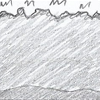
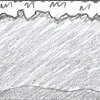
Changed name of the first background of the World to hills, and made it transparent. Added second background to World, which is a mountain range. Made both backgrounds of the world move slowly based on the CAM position.

Changed region(s): [[0.0, 0.0, 1.0, 0.51], [0.18, 0.27, 0.21, 0.3]]

diff --git a/DefendYourStuff/GameEngine/src/main/java/sdu/group8/gameengine/main/Game.java b/DefendYourStuff/GameEngine/src/main/java/sdu/group8/gameengine/main/Game.java
@@ -61,10 +61,10 @@ public class Game
     private static Game instance = null;
     private Collection<Entity> entities;
 
-    private Image firstBackgroundImage = new Image("World/world_chunk01_bg01.png", false);
+    private Image firstBackgroundImage = new Image("World/world_hills01_bg.png", false);
+    private Image secondBackgroundImage = new Image("World/world_mountains01_bg.png", false); //TODO: Change to mountains image
     private int firstBackgroundImageScrollX = 0;
-
-    private Image secondBackgroundImage = new Image("World/world_chunk01_bg01.png", false); //TODO: Change to mountains image
+    private int secondBackgroundImageScrollX = 0;
 
     public Collection<? extends IGameProcessingService> getGameProcesses() {
         return lookup.lookupAll(IGameProcessingService.class);
@@ -111,7 +111,8 @@ public class Game
         assetManager.load("Chunks/chunk_grassland01_bg01.png", Texture.class);
         assetManager.load("Chunks/chunk_portal01_bg01.png", Texture.class);
 
-        assetManager.load("World/world_chunk01_bg01.png", Texture.class);
+        assetManager.load("World/world_hills01_bg.png", Texture.class);
+        assetManager.load("World/world_mountains01_bg.png", Texture.class);
 
         assetManager.load("defaultImage.png", Texture.class);
         assetManager.load("defaultBackground.png", Texture.class);
@@ -150,7 +151,6 @@ public class Game
     private void update() {
 
         updateCamera();
-        updateBackgroundImageForWorld();
 
         for (IGameProcessingService gameProcess : getGameProcesses()) {
             gameProcess.process(gameData, world);
@@ -185,8 +185,8 @@ public class Game
     private void draw() {
         batch.begin();
 
-        //drawTextureFromAsset(firstBackgroundImage, CAM.position.x - CAM.viewportWidth / 2, gameData.getTILE_SIZE()); // Draw second background for the world;
-        drawBackgroundImageForWorld(); //Draw first background for the world;
+        //drawTextureFromAsset(secondBackgroundImage, CAM.position.x - CAM.viewportWidth / 2, gameData.getTILE_SIZE()); // Draw second background for the world;
+        drawBackgroundImageForWorld(); //Draw backgrounds for the world;
         drawMap(); // Draw chunks
         drawEntities(); // Draw entities
 
@@ -224,57 +224,56 @@ public class Game
     }
 
     private void drawSecondBackgroundForChunk(Chunk chunk, float positionOffset) {
-        drawTextureFromAsset(chunk.getSecondBackgroundImage(), positionOffset, chunk.getTILE_SIZE());
+        float scrollScale = 50;
+        float startScrollPos = positionOffset - chunk.getDimension().getWidth();
+        float endScrollPos = positionOffset + chunk.getDimension().getWidth() * 2;
+        float min = positionOffset - chunk.getDimension().getWidth() / scrollScale;
+        float max = positionOffset + (chunk.getDimension().getWidth() * 2) / scrollScale;
 
-        //TODO: add functionality so that the second background image slightly moves when the player is in the chunk.
-//        float chunkPosX = tileOffSetX * gameData.getTILE_SIZE();
-//        float middlePosX = chunkPosX + ((chunk.getDimension().getWidth() / 2) * gameData.getTILE_SIZE());
-//
-//        float min = chunkPosX + ((chunk.getDimension().getWidth() / 4) * gameData.getTILE_SIZE());
-//        float max = min + ((chunk.getDimension().getWidth() / 2) * gameData.getTILE_SIZE());
-//
-//        float playerPosX = gameData.getPlayerPosition().getX();
-//
-//        float imagePosX = min;
-//
-//        if (playerPosX < min) {
-//            imagePosX = max;
-//        } else if (playerPosX > max) {
-//            imagePosX = min;
-//        } else if (playerPosX < middlePosX) {
-//
-//        }
+        float playerPosX = gameData.getPlayerPosition().getX();
+        float imagePosX = max;
+
+        if (playerPosX < startScrollPos) {
+            imagePosX = max;
+        } else if (playerPosX > endScrollPos) {
+            imagePosX = min;
+        } else {
+            imagePosX = max - Math.abs(startScrollPos - playerPosX) / scrollScale;
+        }
+
+        drawTextureFromAsset(chunk.getSecondBackgroundImage(), imagePosX, chunk.getTILE_SIZE());
     }
 
     private void drawEntities() {
-        //TODO: Generalise for all entities;
-
         for (Entity entity : world.getEntities()) {
             drawTextureFromAsset(entity.getImage(), entity.getX() - (entity.getWidth() / 2), entity.getY() - entity.getHeight() / 2);
         }
     }
 
     private void updateCamera() {
-//        Vector3 camPos = CAM.position.cpy();
-//        CAM.position.set(gameData.getPlayerPosition().getX(), camPos.y, camPos.z);
-//        CAM.update();
-
-        //Set camera position.
         Vector3 camPos = CAM.position.cpy();
-        float posX = camPos.x;
-        float moveSpeed = 200;
-
-        if (gameData.getKeys().isKeyDown(gameData.getKeys().D)) {
-            posX += moveSpeed * gameData.getDelta();
-
-        }
-        if (gameData.getKeys().isKeyDown(gameData.getKeys().A)) {
-            posX -= moveSpeed * gameData.getDelta();
-
-        }
-        
-        CAM.position.set(posX, camPos.y, camPos.z);
+        CAM.position.set(gameData.getPlayerPosition().getX(), camPos.y, camPos.z);
         CAM.update();
+
+        camPos = CAM.position.cpy();
+        int scrollSpeed = (int) (camPos.x / 4);
+
+        firstBackgroundImageScrollX = scrollSpeed;
+        secondBackgroundImageScrollX = scrollSpeed / 2;
+
+//        //Set camera position.
+//        Vector3 camPos = CAM.position.cpy();
+//        float posX = camPos.x;
+//        float moveSpeed = 200;
+//        
+//        if (gameData.getKeys().isKeyDown(gameData.getKeys().D)) {
+//            posX += moveSpeed * gameData.getDelta();
+//
+//        }
+//        if (gameData.getKeys().isKeyDown(gameData.getKeys().A)) {
+//            posX -= moveSpeed * gameData.getDelta();
+//        }
+//        CAM.update();
     }
 
     @Override
@@ -300,18 +299,12 @@ public class Game
         batch.draw(sprite, x, y);
     }
 
-    private void updateBackgroundImageForWorld() {
-        float newCamPosX = gameData.getPlayerPosition().getX();
-        if (newCamPosX <= firstBackgroundImageScrollX) {
-            firstBackgroundImageScrollX -= newCamPosX;
-        } else {
-            firstBackgroundImageScrollX += newCamPosX;
-        }
-    }
-
     private void drawBackgroundImageForWorld() {
-        Texture tex = assetManager.get(firstBackgroundImage.getImageURL(), Texture.class);
-        tex.setWrap(Texture.TextureWrap.Repeat, Texture.TextureWrap.Repeat);
-        batch.draw(tex, CAM.position.x - CAM.viewportWidth / 2, 0, firstBackgroundImageScrollX, 0, gameData.getDisplayWidth(), gameData.getDisplayHeight());
+        Texture firstTex = assetManager.get(firstBackgroundImage.getImageURL(), Texture.class);
+        Texture secondTex = assetManager.get(secondBackgroundImage.getImageURL(), Texture.class);
+        firstTex.setWrap(Texture.TextureWrap.Repeat, Texture.TextureWrap.Repeat);
+        secondTex.setWrap(Texture.TextureWrap.Repeat, Texture.TextureWrap.Repeat);
+        batch.draw(secondTex, CAM.position.x - CAM.viewportWidth / 2, 0, secondBackgroundImageScrollX, 0, gameData.getDisplayWidth(), gameData.getDisplayHeight());
+        batch.draw(firstTex, CAM.position.x - CAM.viewportWidth / 2, 0, firstBackgroundImageScrollX, 0, gameData.getDisplayWidth(), gameData.getDisplayHeight());
     }
 }

diff --git a/DefendYourStuff/Map/src/main/java/sdu/group8/map/chunks/Chunk_Base.java b/DefendYourStuff/Map/src/main/java/sdu/group8/map/chunks/Chunk_Base.java
@@ -42,7 +42,7 @@ public class Chunk_Base extends Chunk {
     };
 
     public Chunk_Base(float positionOffset) {
-        super(new Image("Chunks/chunk_base_bg01.png", false), new Image("defaultBackground.png", false), positionOffset);
+        super(new Image("defaultBackground.png", false), new Image("defaultBackground.png", false), positionOffset);
         setTileMatrix(BG_BASE);
     }
 
